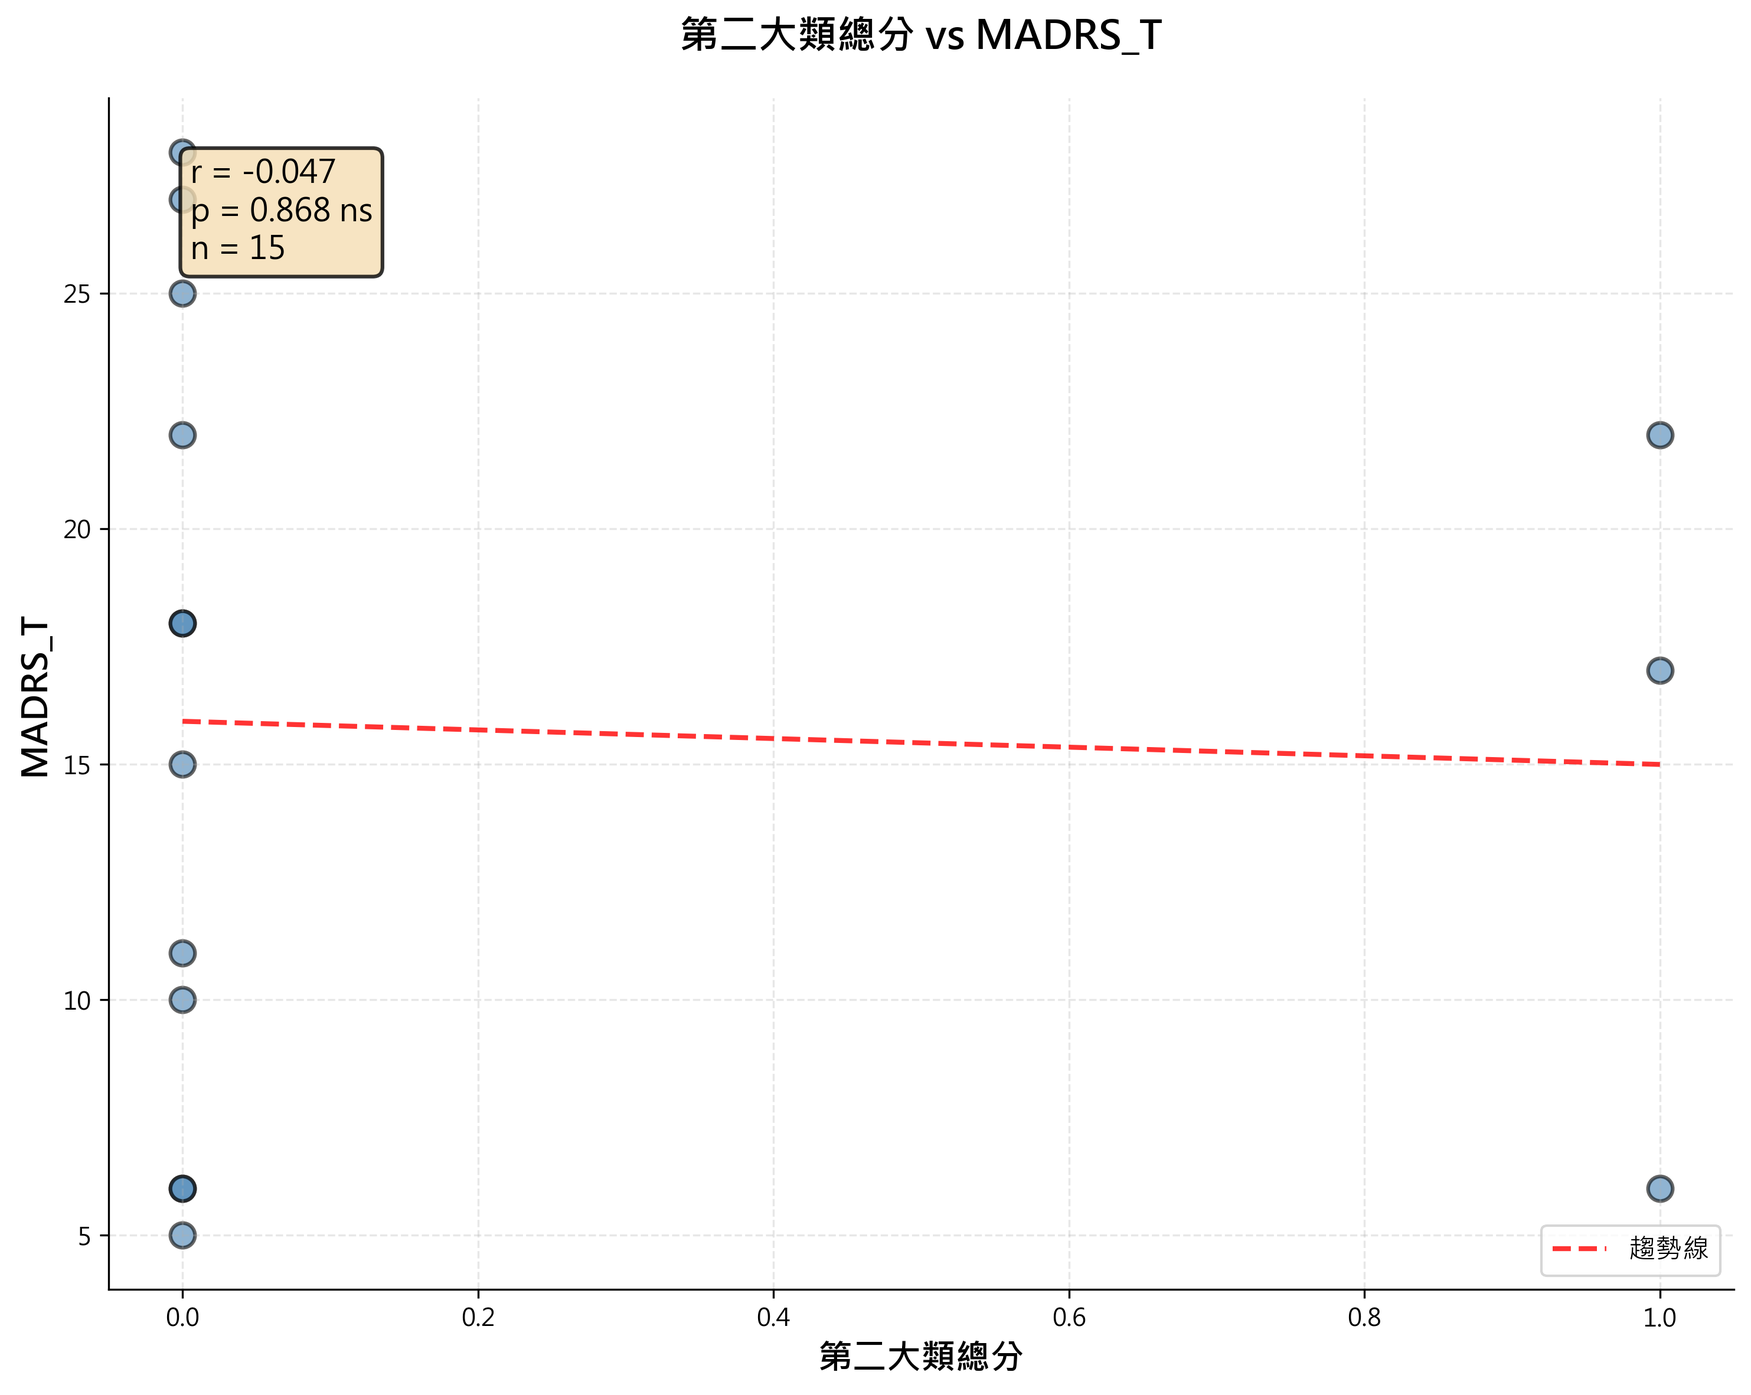
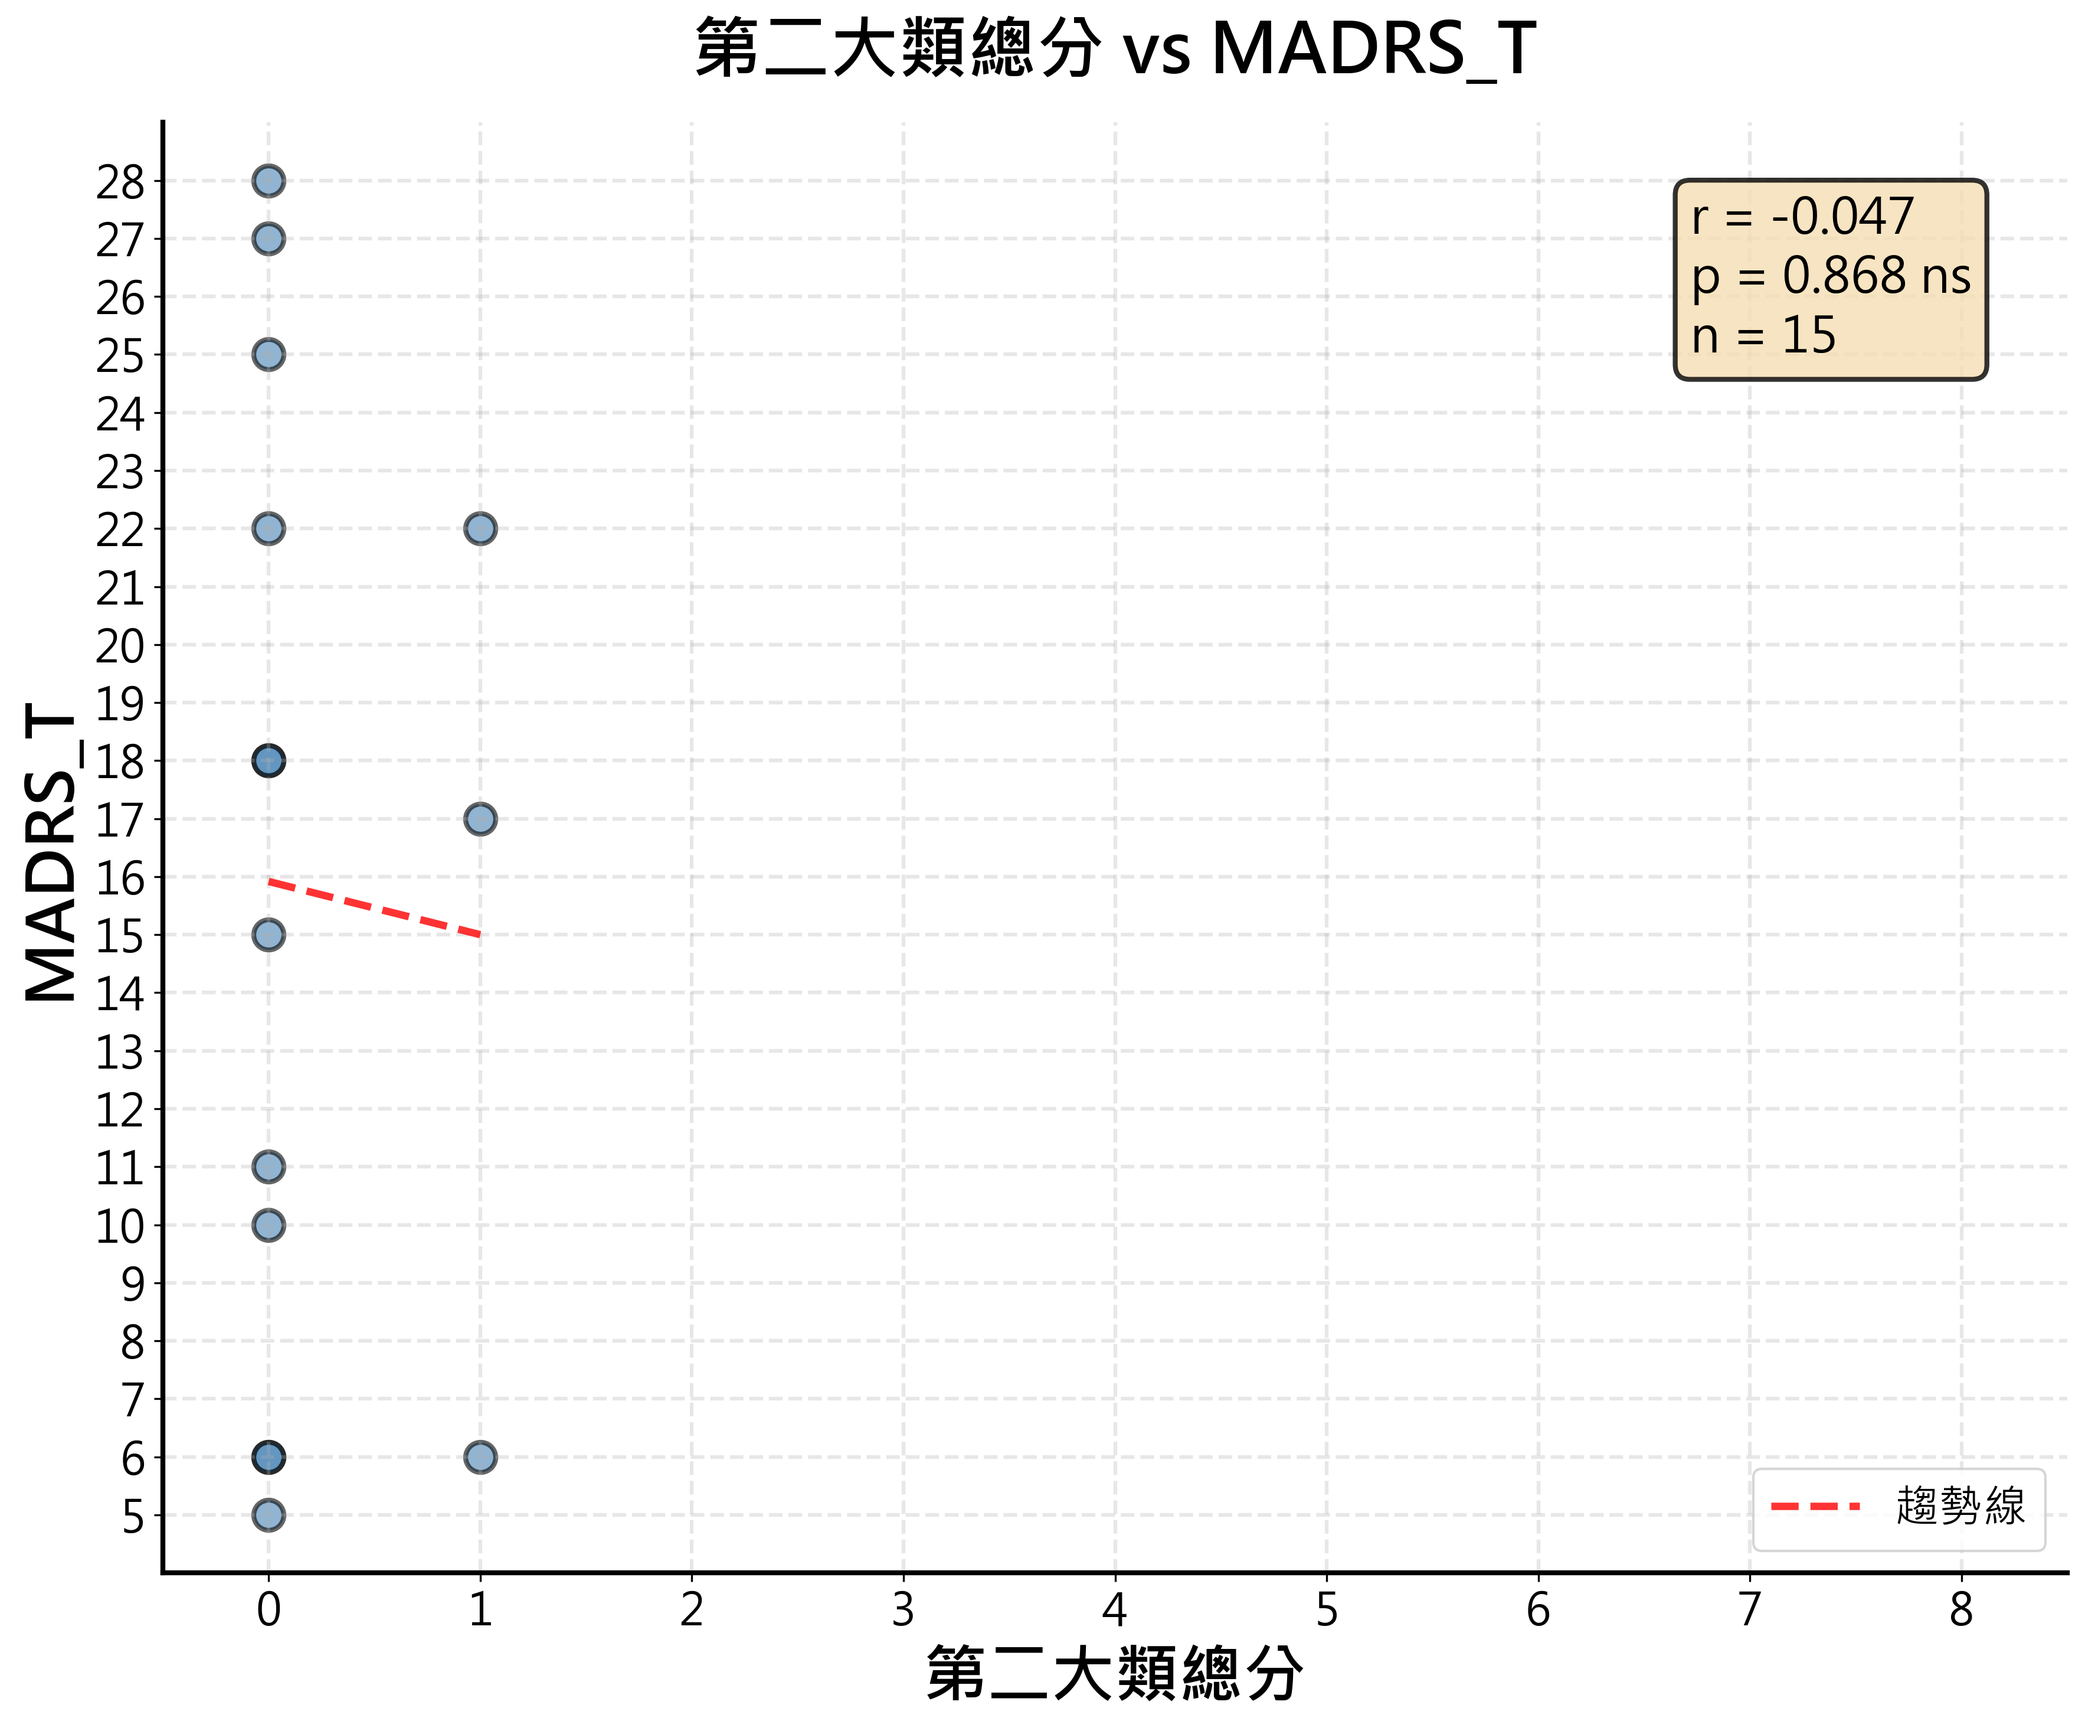
finished pilot_DAP_corr.py

diff --git a/feat_quant/pilot_DAP_corr.py b/feat_quant/pilot_DAP_corr.py
@@ -4,9 +4,55 @@ import matplotlib.pyplot as plt
 from scipy.stats import pearsonr
 import seaborn as sns
 
-# 設定中文字體
+# 設定中文字體和全域字體大小
 plt.rcParams['font.sans-serif'] = ['Microsoft JhengHei', 'Arial Unicode MS', 'SimHei']
 plt.rcParams['axes.unicode_minus'] = False
+plt.rcParams['font.size'] = 14  # 全域字體大小
+
+def get_madrs_severity_color(madrs_score):
+    """
+    🆕 根據 MADRS 分數返回對應的嚴重程度顏色
+    
+    康復/無症狀：0-6 分 → 綠色
+    輕度：7-19 分 → 黃色
+    中度：20-34 分 → 橙色
+    重度：35-60 分 → 紅色
+    
+    Args:
+        madrs_score: MADRS 分數
+    
+    Returns:
+        顏色代碼
+    """
+    if madrs_score <= 6:
+        return '#2ecc71'  # 綠色 (康復/無症狀)
+    elif madrs_score <= 19:
+        return '#f1c40f'  # 黃色 (輕度)
+    elif madrs_score <= 34:
+        return '#e67e22'  # 橙色 (中度)
+    else:
+        return '#e74c3c'  # 紅色 (重度)
+
+
+def get_madrs_severity_label(madrs_score):
+    """
+    🆕 根據 MADRS 分數返回對應的嚴重程度標籤
+    
+    Args:
+        madrs_score: MADRS 分數
+    
+    Returns:
+        嚴重程度標籤
+    """
+    if madrs_score <= 6:
+        return '康復/無症狀 (0-6)'
+    elif madrs_score <= 19:
+        return '輕度 (7-19)'
+    elif madrs_score <= 34:
+        return '中度 (20-34)'
+    else:
+        return '重度 (35-60)'
+
 
 def create_scatter_plot(df, x_col, y_col, output_filename):
     """
@@ -32,38 +78,65 @@ def create_scatter_plot(df, x_col, y_col, output_filename):
     r, p_value = pearsonr(x, y)
     
     # 創建圖表
-    fig, ax = plt.subplots(figsize=(10, 8))
+    fig, ax = plt.subplots(figsize=(12, 10))
     
     # 繪製散布圖
-    ax.scatter(x, y, s=100, alpha=0.6, color='steelblue', edgecolors='black', linewidth=1.5)
+    ax.scatter(x, y, s=150, alpha=0.6, color='steelblue', edgecolors='black', linewidth=2)
     
     # 添加趨勢線
     z = np.polyfit(x, y, 1)
     p = np.poly1d(z)
     x_line = np.linspace(x.min(), x.max(), 100)
-    ax.plot(x_line, p(x_line), "r--", alpha=0.8, linewidth=2, label='趨勢線')
+    ax.plot(x_line, p(x_line), "r--", alpha=0.8, linewidth=3, label='趨勢線')
     
     # 設定標題和軸標籤
-    ax.set_xlabel(x_col, fontsize=14, fontweight='bold')
-    ax.set_ylabel(y_col, fontsize=14, fontweight='bold')
-    ax.set_title(f'{x_col} vs {y_col}', fontsize=16, fontweight='bold', pad=20)
+    ax.set_xlabel(x_col, fontsize=26, fontweight='bold')
+    ax.set_ylabel(y_col, fontsize=26, fontweight='bold')
+    ax.set_title(f'{x_col} vs {y_col}', fontsize=28, fontweight='bold', pad=20)
+    
+    # 設定 X 軸範圍和刻度（整數）
+    if '第一大類總分' in x_col:
+        ax.set_xlim(-0.5, 9.5)
+        ax.set_xticks(range(0, 10))
+    elif '第二大類總分' in x_col:
+        ax.set_xlim(-0.5, 8.5)
+        ax.set_xticks(range(0, 9))
+    elif '第三大類總分' in x_col:
+        ax.set_xlim(-0.5, 10.5)
+        ax.set_xticks(range(0, 11))
+    elif '一至三類總分' in x_col:
+        ax.set_xlim(-0.5, 27.5)
+        ax.set_xticks(range(0, 28, 2))
+    
+    # 設定 Y 軸刻度（整數）
+    y_min = int(np.floor(y.min()))
+    y_max = int(np.ceil(y.max()))
+    ax.set_ylim(y_min - 1, y_max + 1)
+    ax.set_yticks(range(y_min, y_max + 1))
+    
+    # 放大刻度標籤字體
+    ax.tick_params(axis='both', which='major', labelsize=18)
     
     # 顯示相關係數和p值
     significance = "***" if p_value < 0.001 else "**" if p_value < 0.01 else "*" if p_value < 0.05 else "ns"
     stats_text = f'r = {r:.3f}\np = {p_value:.3f} {significance}\nn = {len(valid_data)}'
     
-    # 添加文字框
-    ax.text(0.05, 0.95, stats_text, 
+    # 添加文字框（右上角，文字左對齊）
+    ax.text(0.95, 0.95, stats_text,
             transform=ax.transAxes,
-            fontsize=13,
+            fontsize=20,
             verticalalignment='top',
-            bbox=dict(boxstyle='round', facecolor='wheat', alpha=0.8, edgecolor='black', linewidth=1.5))
+            horizontalalignment='right',
+            multialignment='left',
+            bbox=dict(boxstyle='round', facecolor='wheat', alpha=0.8, edgecolor='black', linewidth=2))
     
     # 美化圖表
-    ax.grid(True, alpha=0.3, linestyle='--')
+    ax.grid(True, alpha=0.3, linestyle='--', linewidth=1.5)
     ax.spines['top'].set_visible(False)
     ax.spines['right'].set_visible(False)
-    ax.legend(loc='lower right', fontsize=11)
+    ax.spines['left'].set_linewidth(2)
+    ax.spines['bottom'].set_linewidth(2)
+    ax.legend(loc='lower right', fontsize=18)
     
     # 調整佈局
     plt.tight_layout()
@@ -71,6 +144,97 @@ def create_scatter_plot(df, x_col, y_col, output_filename):
     # 儲存圖片
     plt.savefig(output_filename, dpi=300, bbox_inches='tight')
     print(f"✅ 已儲存: {output_filename} (r={r:.3f}, p={p_value:.3f})")
+    
+    plt.close()
+
+
+def create_bar_chart(df, score_col, chart_title, output_filename, show_legend=False):
+    """
+    🆕 創建柱狀圖，主橫軸為受試者編號，副橫軸為 MADRS_T，縱軸為總分
+    根據 MADRS 分數範圍使用不同顏色
+    
+    Args:
+        df: DataFrame（已按 MADRS_T 排序）
+        score_col: 分數欄位名稱
+        chart_title: 圖表標題
+        output_filename: 輸出檔案名稱
+        show_legend: 是否顯示圖例（預設 False）
+    """
+    # 移除缺失值
+    valid_data = df[['受試者編號', 'MADRS_T', score_col]].dropna()
+    
+    if len(valid_data) == 0:
+        print(f"⚠ {score_col}: 無有效資料")
+        return
+    
+    # 🆕 創建圖表（加大高度以容納副橫軸）
+    fig, ax = plt.subplots(figsize=(16, 10))
+    
+    # 🆕 使用位置索引作為 X 軸
+    x_positions = np.arange(len(valid_data))
+    y_values = valid_data[score_col].values
+    subject_ids = valid_data['受試者編號'].values
+    madrs_scores = valid_data['MADRS_T'].values
+    
+    # 根據 MADRS 分數設定顏色
+    colors = [get_madrs_severity_color(madrs) for madrs in madrs_scores]
+    
+    bars = ax.bar(x_positions, y_values, width=0.8, alpha=0.8, 
+                   color=colors, edgecolor='black', linewidth=1.5)
+    
+    # 在柱子上方顯示數值
+    for i, (x, y) in enumerate(zip(x_positions, y_values)):
+        ax.text(x, y + 0.15, f'{y:.0f}', ha='center', va='bottom', 
+                fontsize=12, fontweight='bold')
+    
+    # 🆕🆕🆕 設定標題和軸標籤
+    ax.set_xlabel('受試者編號', fontsize=26, fontweight='bold', labelpad=10)
+    ax.set_ylabel('總分', fontsize=26, fontweight='bold')  # 🆕 統一改成「總分」
+    ax.set_title(chart_title, fontsize=28, fontweight='bold', pad=40)  # 🆕 使用傳入的標題
+    
+    # 🆕🆕🆕 設定主橫軸（受試者編號）
+    ax.set_xticks(x_positions)
+    ax.set_xticklabels(subject_ids, rotation=45, ha='right', fontsize=14)
+    
+    # 🆕🆕🆕 設定 Y 軸刻度（統一 0-6）
+    ax.set_ylim(-0.3, 6.5)
+    ax.set_yticks(range(0, 7))
+    
+    # 放大刻度標籤字體
+    ax.tick_params(axis='y', which='major', labelsize=18)
+    
+    # 🆕🆕🆕 添加副橫軸（MADRS_T）
+    ax2 = ax.twiny()  # 創建共享 Y 軸的第二個 X 軸
+    ax2.set_xlim(ax.get_xlim())
+    ax2.set_xticks(x_positions)
+    ax2.set_xticklabels(madrs_scores, fontsize=14)
+    ax2.set_xlabel('MADRS_T', fontsize=26, fontweight='bold', labelpad=10)
+    ax2.tick_params(axis='x', which='major', labelsize=14)
+    
+    # 只在 show_legend=True 時顯示圖例
+    if show_legend:
+        from matplotlib.patches import Patch
+        legend_elements = [
+            Patch(facecolor='#2ecc71', edgecolor='black', label='康復/無症狀 (0-6)'),
+            Patch(facecolor='#f1c40f', edgecolor='black', label='輕度 (7-19)'),
+            Patch(facecolor='#e67e22', edgecolor='black', label='中度 (20-34)'),
+            Patch(facecolor='#e74c3c', edgecolor='black', label='重度 (35-60)')
+        ]
+        ax.legend(handles=legend_elements, loc='upper left', fontsize=16, framealpha=0.9)
+    
+    # 美化圖表
+    ax.grid(True, alpha=0.3, linestyle='--', linewidth=1.5, axis='y')
+    ax.spines['top'].set_visible(False)
+    ax.spines['right'].set_visible(False)
+    ax.spines['left'].set_linewidth(2)
+    ax.spines['bottom'].set_linewidth(2)
+    
+    # 調整佈局
+    plt.tight_layout()
+    
+    # 儲存圖片
+    plt.savefig(output_filename, dpi=300, bbox_inches='tight')
+    print(f"✅ 已儲存: {output_filename}")
     
     plt.close()
 
@@ -102,6 +266,30 @@ def main():
         print(f"   現有欄位: {list(df.columns)}")
         return
     
+    # 依照 MADRS_T 排序
+    df_sorted = df.sort_values('MADRS_T').reset_index(drop=True)
+    
+    # 顯示排序後的受試者資料（包含嚴重程度）
+    print(f"\n📋 所有受試者資料 (依 MADRS_T 排序):")
+    for idx, row in df_sorted.iterrows():
+        severity = get_madrs_severity_label(row['MADRS_T'])
+        print(f"  {row['受試者編號']}: MADRS_T = {row['MADRS_T']} [{severity}], "
+              f"第一類 = {row['第一大類總分']}, "
+              f"第二類 = {row['第二大類總分']}, "
+              f"第三類 = {row['第三大類總分']}, "
+              f"總分 = {row['一至三類總分']}")
+    
+    # 統計各嚴重程度的人數
+    print(f"\n📊 MADRS 嚴重程度分布:")
+    severity_counts = {
+        '康復/無症狀 (0-6)': len(df[df['MADRS_T'] <= 6]),
+        '輕度 (7-19)': len(df[(df['MADRS_T'] >= 7) & (df['MADRS_T'] <= 19)]),
+        '中度 (20-34)': len(df[(df['MADRS_T'] >= 20) & (df['MADRS_T'] <= 34)]),
+        '重度 (35-60)': len(df[df['MADRS_T'] >= 35])
+    }
+    for severity, count in severity_counts.items():
+        print(f"  {severity}: {count} 人")
+    
     # 顯示資料摘要
     print("\n📊 資料摘要:")
     print(df[['第一大類總分', '第二大類總分', '第三大類總分', '一至三類總分', 'MADRS_T']].describe())
@@ -109,12 +297,16 @@ def main():
     # 檢查缺失值
     print("\n🔍 缺失值檢查:")
     missing_counts = df[required_columns].isnull().sum()
+    has_missing = False
     for col, count in missing_counts.items():
         if count > 0:
             print(f"  {col}: {count} 筆缺失")
+            has_missing = True
+    if not has_missing:
+        print("  ✅ 無缺失值")
     
-    # 定義要繪製的圖表
-    plots = [
+    # 定義要繪製的散布圖
+    scatter_plots = [
         ('第一大類總分', 'MADRS_T', 'scatter_category1_vs_MADRS.png'),
         ('第二大類總分', 'MADRS_T', 'scatter_category2_vs_MADRS.png'),
         ('第三大類總分', 'MADRS_T', 'scatter_category3_vs_MADRS.png'),
@@ -123,8 +315,21 @@ def main():
     
     # 繪製散布圖
     print("\n📈 開始繪製散布圖...")
-    for x_col, y_col, filename in plots:
+    for x_col, y_col, filename in scatter_plots:
         create_scatter_plot(df, x_col, y_col, filename)
+    
+    # 🆕🆕🆕 定義要繪製的柱狀圖（包含圖表標題和是否顯示圖例）
+    bar_charts = [
+        ('第一大類總分', '第一大類', 'bar_category1_vs_MADRS.png', True),   # 🆕 顯示圖例
+        ('第二大類總分', '第二大類', 'bar_category2_vs_MADRS.png', False),  # 🆕 不顯示圖例
+        ('第三大類總分', '第三大類', 'bar_category3_vs_MADRS.png', False),  # 🆕 不顯示圖例
+        ('一至三類總分', '三類總分', 'bar_total_vs_MADRS.png', False)       # 🆕 不顯示圖例
+    ]
+    
+    # 🆕🆕🆕 繪製柱狀圖（傳入圖表標題）
+    print("\n📊 開始繪製柱狀圖...")
+    for score_col, chart_title, filename, show_legend in bar_charts:
+        create_bar_chart(df_sorted, score_col, chart_title, filename, show_legend=show_legend)
     
     # 計算並顯示相關矩陣
     print("\n📊 相關係數矩陣:")
@@ -134,10 +339,14 @@ def main():
     
     # 繪製相關矩陣熱圖
     print("\n🎨 繪製相關矩陣熱圖...")
-    plt.figure(figsize=(10, 8))
+    plt.figure(figsize=(12, 10))
     sns.heatmap(corr_matrix, annot=True, fmt='.3f', cmap='coolwarm', 
-                center=0, square=True, linewidths=1, cbar_kws={"shrink": 0.8})
-    plt.title('相關係數矩陣', fontsize=16, fontweight='bold', pad=20)
+                center=0, square=True, linewidths=2, 
+                cbar_kws={"shrink": 0.8},
+                annot_kws={"size": 16})
+    plt.title('相關係數矩陣', fontsize=22, fontweight='bold', pad=20)
+    plt.xticks(fontsize=16, rotation=45, ha='right')
+    plt.yticks(fontsize=16, rotation=0)
     plt.tight_layout()
     plt.savefig('correlation_matrix_heatmap.png', dpi=300, bbox_inches='tight')
     print("✅ 已儲存: correlation_matrix_heatmap.png")
@@ -146,7 +355,7 @@ def main():
     # 生成詳細報告
     print("\n📋 詳細相關分析報告:")
     print("=" * 70)
-    for x_col, y_col, _ in plots:
+    for x_col, y_col, _ in scatter_plots:
         valid_data = df[[x_col, y_col]].dropna()
         if len(valid_data) >= 2:
             r, p_value = pearsonr(valid_data[x_col], valid_data[y_col])
@@ -157,14 +366,27 @@ def main():
             print(f"  p值: {p_value:.3f} {significance}")
             print(f"  效果量: {'大' if abs(r) >= 0.5 else '中' if abs(r) >= 0.3 else '小'}")
             print("-" * 70)
+        else:
+            print(f"{x_col} vs {y_col}:")
+            print(f"  ⚠ 資料點不足 (n={len(valid_data)})")
+            print("-" * 70)
     
     print("\n✅ 所有圖表已生成完成！")
+    print(f"\n📊 分析摘要:")
+    print(f"  總資料筆數: {len(df)} 筆")
     print("\n📁 生成的檔案:")
+    print("  【散布圖】")
     print("  1. scatter_category1_vs_MADRS.png")
     print("  2. scatter_category2_vs_MADRS.png")
     print("  3. scatter_category3_vs_MADRS.png")
     print("  4. scatter_total_vs_MADRS.png")
-    print("  5. correlation_matrix_heatmap.png (額外贈送)")
+    print("  【柱狀圖】")
+    print("  5. bar_category1_vs_MADRS.png (含圖例)")
+    print("  6. bar_category2_vs_MADRS.png")
+    print("  7. bar_category3_vs_MADRS.png")
+    print("  8. bar_total_vs_MADRS.png")
+    print("  【其他】")
+    print("  9. correlation_matrix_heatmap.png")
 
 
 if __name__ == "__main__":
